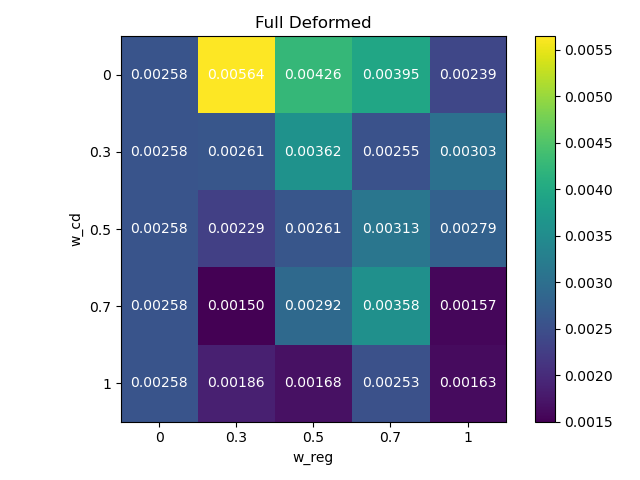
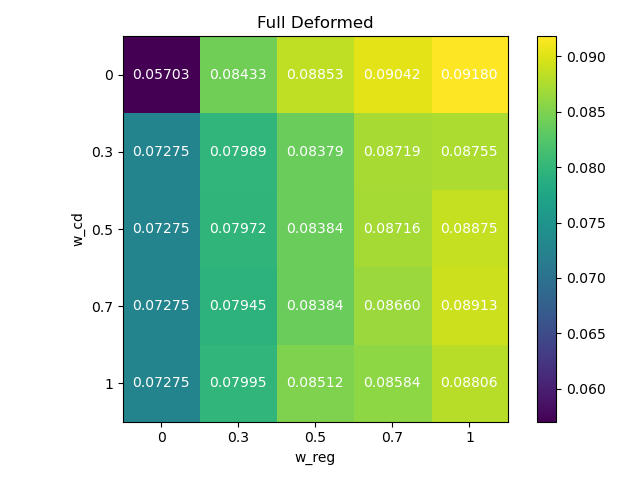
change the images

diff --git a/Testing/w_cd_w_reg/aggregate_data_optimize_weights.py b/Testing/w_cd_w_reg/aggregate_data_optimize_weights.py
@@ -10,7 +10,7 @@ matrix = np.zeros([len(w_reg_list), len(w_cd_list)])
 final_matrices = {type : copy.deepcopy(matrix) for type in types}
 w_reg_idx = 0
 w_cd_idx = 0
-model='207'
+model='042'
 
 file='Testing/w_cd_w_reg/testing_w_pre_mutual_kpfcn_td_pretrained_' + model + '.txt'
 f = open(file, "r")
@@ -30,8 +30,6 @@ for line in f:
         res = float(list_res[0])
         final_matrices[types[idx]][w_reg_idx][w_cd_idx] = res
         idx += 1
-
-print(final_matrices)
 
 for idx in range(len(types)):
                     
